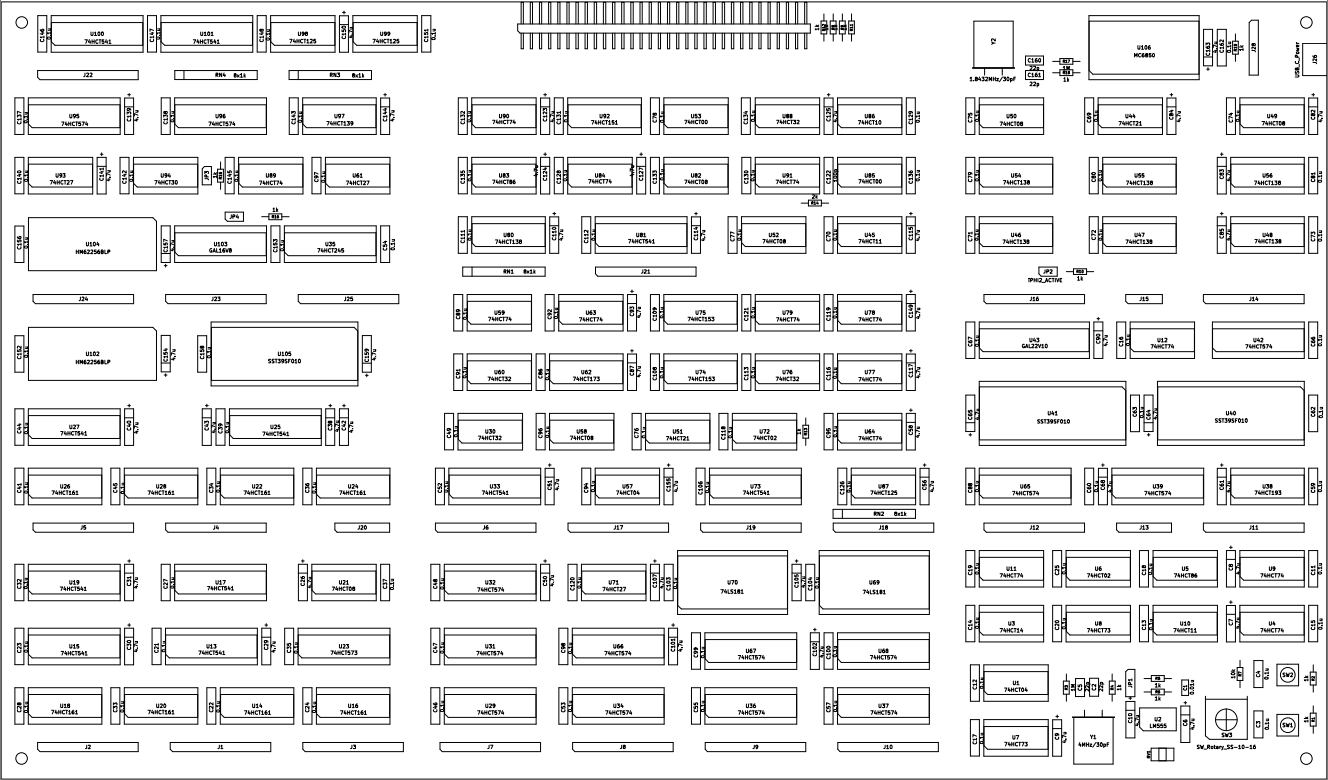
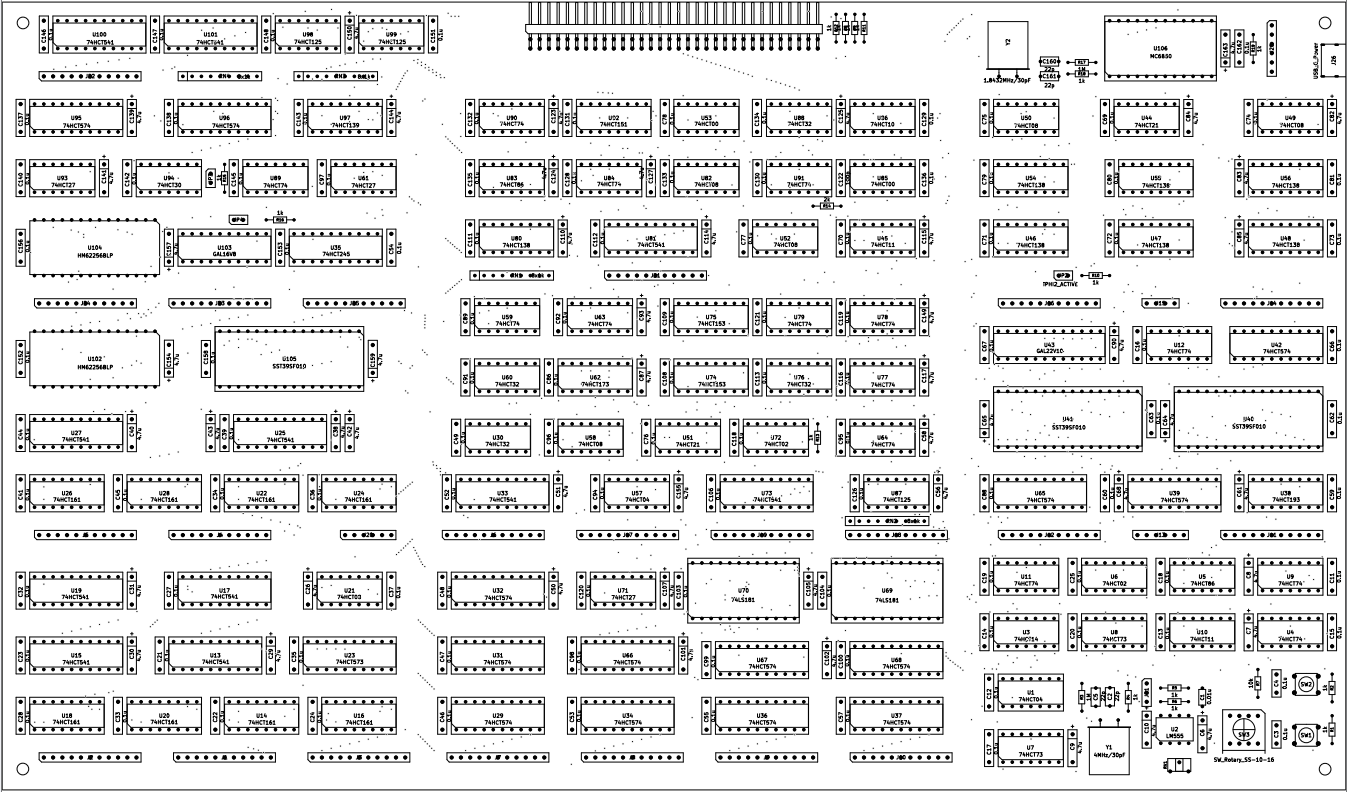
Latest updates

diff --git a/README.md b/README.md
@@ -2,7 +2,7 @@
 <h2 style="text-align: center;">Yet another CPU made from TTL chips</h2>
 <br>
 <div style="text-align: center;">
-  <img src="docs/assets/images/pcb_revA.jpg" />
+  <img src="docs/assets/images/RevB.jpg" />
 </div>
 <br>
 <h3 style="text-align: center;">Introduction</h3>
@@ -505,8 +505,8 @@ In revision A I added a UART as expansion externally for communicating with the 
   <img src="docs/assets/images/page_16/simttl_regs.png"/>
 </div>
 <br>
-The chips on this page are not placed on the board and they don't appear in the BOM. They are only used for SimTTL to create viewable signals from their outputs. For instance, the CPU registers are captured from the data bus with some load signal, but their outputs are only shown, when they are read onto the data bus. These virtual chips capture the contents with the same signals, but always output their contents to be viewed in SimTTL.<br>
-This page can be ignored in regards to the board functionality.<br>
+The chips on this page are not placed on the board and they don't appear in the BOM. They are only used for SimTTL to create viewable signals from their outputs. For instance, the CPU registers are captured from the data bus with some load signal, but their outputs are only shown, when they are read onto the data bus. These virtual chips capture the contents with the same signals but always output their contents to be viewed in SimTTL.<br>
+This page can be ignored in regard to the board functionality.<br>
 <br>
 <h4 style="text-align: center;">Board Layout</h4>
 <br>
@@ -527,13 +527,21 @@ As in the revision A I put some efforts into silkscreen to mark the different re
 The silkscreen could not include all information, I had to leave out capacitor and resistor values for space reasons. So I generated a fab drawing as a help with all values.
 <br><br>
 <br>
-<h4 style="text-align: center;">Status</h4>
+<h4 style="text-align: center;">Assembly</h4>
 <br>
 <div style="text-align: center;">
   <img src="docs/assets/images/board_revB.jpg"/>
 </div>
-I received the boards and I'm currently soldering all sockets and components.
+The blank board as it came from <a href="www.PCBway.com">PCBway</a>.
 <div style="text-align: center;">
   <img src="docs/assets/images/pcb_revB_progress.jpg"/>
 </div>
 Still missing few parts....
+<div style="text-align: center;">
+  <img src="docs/assets/images/pcb_Rev B assembled.jpg"/>
+</div>
+Fully assembled and all ICs placed!
+<div style="text-align: center;">
+  <img src="docs/assets/images/pcb_Rev B displays.jpg"/>
+</div>
+Rev B Board fully functional with all display boards plugged in and stepping through phases of a test program.
